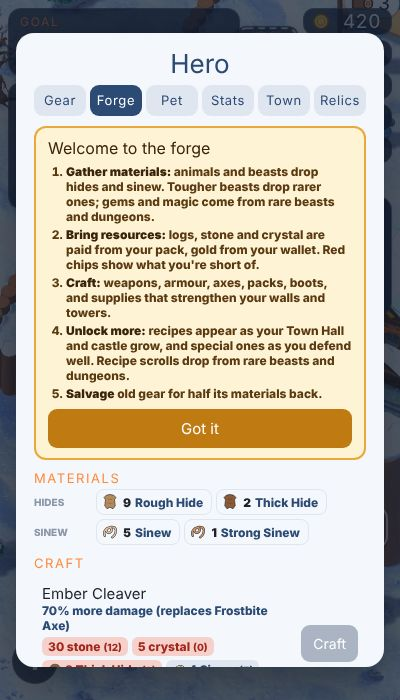
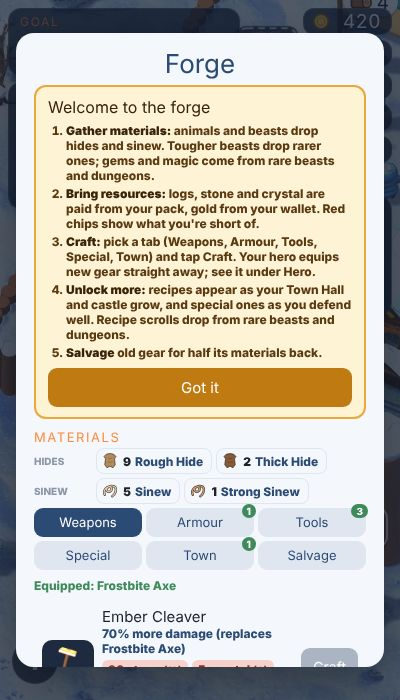
Forge in its own window with grouped tabs and item pictures; hero lists gear and materials apart; staging indestructible mode
Claude-Session: https://claude.ai/code/session_01B1L5Cqk9pSHD4f4xTSZniZ

diff --git a/index.html b/index.html
@@ -105,6 +105,8 @@ html,body{height:100%;margin:0;background:var(--ice);color:var(--ink);overflow:h
 .craft .row{display:flex;gap:8px;align-items:center;background:#f4f7fb;border-radius:10px;padding:8px;margin:6px 0}.craft .row div{flex:1;font:800 12px var(--body);color:#2b4a74}.craft .row div b{display:block;font:15px var(--display);color:#1d2128}.craft .cost{display:flex;flex-wrap:wrap;gap:4px;margin-top:4px}.craft .cost span{background:#dfe6f0;border-radius:6px;padding:2px 6px}.craft .cost span.no{background:#f6d1cc;color:#a3271b}.craft .row button{border:0;border-radius:9px;padding:10px 12px;font:14px var(--display);background:#3f8a5a;color:#fff;cursor:pointer}.craft .row button:disabled{background:#aab4c2}.craft .row button.salv{background:#a3532b}.craft .row.rare{background:#e3efff;box-shadow:inset 0 0 0 2px #6fa8e8}.craft .row.legendary{background:#fff3d6;box-shadow:inset 0 0 0 2px #e8a83a}.craft .row em{font:800 10px var(--body);font-style:normal;text-transform:uppercase;padding:2px 6px;border-radius:6px;background:#2b4a74;color:#fff;vertical-align:middle}.craft .row.legendary em{background:#c07a12}
 .craft .ftut{background:#fff3d6;border:2px solid #e8a83a;border-radius:12px;padding:10px 12px;margin:4px 0 8px;font:800 12px var(--body);color:#5a3a10}.craft .ftut b{color:#3a2408}.craft .ftut>b{display:block;font:16px var(--display)}.craft .ftut ol{margin:6px 0 8px 18px;padding:0}.craft .ftut li{margin:3px 0}.craft .ftut button{width:100%;border:0;border-radius:9px;padding:10px;font:15px var(--display);background:#c07a12;color:#fff;cursor:pointer}
 #forgeBtn.new::after{content:'NEW';position:absolute;top:-8px;right:-8px;background:#e2483f;color:#fff;font:800 10px var(--body);padding:2px 5px;border-radius:6px}#forgeBtn{position:fixed}
+.ftabs{display:flex;flex-wrap:wrap;gap:4px;margin:4px 0 8px}.ftabs button{flex:1 0 30%;border:0;border-radius:9px;padding:8px 4px;font:13px/1 var(--display);background:#dfe6f0;color:#2b4a74;cursor:pointer;position:relative}.ftabs button[aria-pressed=true]{background:#2b4a74;color:#fff}.ftabs button i{position:absolute;top:-4px;right:-2px;background:#3f8a5a;color:#fff;font:800 10px var(--body);font-style:normal;border-radius:8px;padding:1px 5px}
+.craft .row .pic{flex:0 0 52px;height:52px;border-radius:10px;background:#1d2a40;display:flex;align-items:center;justify-content:center;overflow:hidden}.craft .row .pic img,.craft .row .pic svg{width:48px;height:48px}.craft .ok{font:800 12px var(--body);color:#3f8a5a;margin:4px 0}
 .craft .mats{display:flex;flex-wrap:wrap;gap:4px}.craft .mats span{display:inline-flex;align-items:center;gap:4px;background:#f4f7fb;color:#2b4a74;border:1px solid #dfe6f0;border-radius:8px;padding:3px 8px 3px 4px;font:800 12px var(--body)}.craft .mats span b{color:#1d2128}.craft .mgrp{display:flex;gap:8px;align-items:flex-start;margin:4px 0}.craft .mgrp>i{flex:0 0 54px;font:800 10px var(--body);font-style:normal;text-transform:uppercase;color:#8a96a8;padding-top:7px}.craft .cost span{display:inline-flex;align-items:center;gap:3px}.mi{flex:none;vertical-align:middle}.craft p{font:800 12px var(--body);color:#5a6b80;margin:6px 0}
 #tameBtn{position:fixed;z-index:8;left:50%;transform:translateX(-50%);bottom:calc(78px + env(safe-area-inset-bottom,0px));border:2px solid #fff;background:#3f8a5a;color:#fff;font:17px/1 var(--display);letter-spacing:.04em;padding:14px 20px;border-radius:14px;box-shadow:0 6px 18px rgba(0,0,0,.3);cursor:pointer;white-space:nowrap}
 #chipMenu{position:fixed;z-index:9;display:flex;flex-direction:column;gap:6px;background:var(--panel);border:1px solid var(--panel-line);border-radius:12px;padding:7px}
@@ -166,6 +168,15 @@ html,body{height:100%;margin:0;background:var(--ice);color:var(--ink);overflow:h
 .icard{margin-top:8px;background:#fff;border:2px solid #c9d6e8;border-radius:12px;padding:8px 10px;font:700 13px/1.35 var(--body);min-height:40px}.icard b{display:block;font:16px/1.2 var(--display);color:#2b4a74}
 .inv{display:grid;grid-template-columns:repeat(4,1fr);gap:6px;margin-top:6px}.inv .slot{width:100%;height:auto;aspect-ratio:1}
 #stats ul{margin:0;padding-left:18px;font:700 13px/1.4 var(--body)}
+#forge{position:fixed;inset:0;z-index:21;display:flex;align-items:center;justify-content:center;background:rgba(16,26,44,.72);padding:0 16px}
+#forge .box{background:#f4f7fc;color:var(--ink);border-radius:18px;padding:18px 18px 14px;width:min(380px,100%);max-height:86vh;overflow:auto;box-shadow:0 20px 50px rgba(0,0,0,.35)}
+#forge h2{margin:0 0 8px;font:26px/1 var(--display);color:#2b4a74;text-align:center}
+#forge h3{margin:12px 0 4px;font:13px/1 var(--display);letter-spacing:.12em;text-transform:uppercase;color:var(--ember)}
+#forge dl{display:grid;grid-template-columns:1fr auto;gap:4px 12px;margin:0;font:700 14px/1.3 var(--body)}
+#forge dd{margin:0;text-align:right;font-variant-numeric:tabular-nums}
+#forge .none{font:700 13px/1.3 var(--body);opacity:.65;margin:0}
+#forge ul{margin:0;padding-left:18px;font:700 13px/1.4 var(--body)}
+#closeForge{display:block;margin:14px auto 0;border:0;border-radius:12px;background:#2b4a74;color:#fff;font:16px/1 var(--display);padding:10px 20px;cursor:pointer}
 #closeStats{display:block;margin:14px auto 0;border:0;border-radius:12px;background:#2b4a74;color:#fff;font:16px/1 var(--display);padding:10px 20px;cursor:pointer}
 #invite{position:fixed;inset:0;z-index:21;display:flex;align-items:center;justify-content:center;background:rgba(16,26,44,.72);padding:0 16px}
 #invite .box{background:#f4f7fc;color:var(--ink);border-radius:18px;padding:20px;max-width:330px;text-align:center;box-shadow:0 20px 50px rgba(0,0,0,.35)}
@@ -251,6 +262,7 @@ html,body{height:100%;margin:0;background:var(--ice);color:var(--ink);overflow:h
 <div class="joinrow"><label for="codeIn">Room code</label><input id="codeIn" maxlength="6" autocomplete="off" inputmode="text" placeholder="e.g. K7Q2"><button id="joinBtn" type="button">Join</button></div>
 <p id="lobbyMsg" class="fine"></p><button id="closeLobby" type="button" class="ghost">Cancel</button></div></div>
 <div id="help" hidden><div class="box"><h2>How to play</h2><input id="helpQ" type="search" placeholder="Search help (e.g. pets, raids, castle)"><div id="helpBody">Loading…</div><button id="closeHelp" type="button">Close</button></div></div>
+<div id="forge" hidden><div class="box"><h2>Forge</h2><div id="forgeBody"></div><button id="closeForge" type="button">Close</button></div></div>
 <div id="stats" hidden><div class="box"><h2>Hero</h2><div id="statsBody"></div><h3>Name and coat colour</h3><div class="prof"></div><button id="closeStats" type="button">Close</button></div></div>
 <div id="over" hidden><div class="box"><h2 id="overHead">Frosthold has fallen</h2><p id="overTxt"></p><button id="again" type="button">Rebuild</button></div></div>
 
@@ -579,6 +591,7 @@ function floatText(txt, x, y, z, cls) { if (loading) return; const d = document.
 function makeBar(cls) { const d = document.createElement('div'); d.className = 'bar3 ' + (cls || ''); d.innerHTML = '<i></i>'; d.hidden = true; ov.appendChild(d); return d; }
 function setBar(bar, f, x, y, z) { bar.hidden = false; bar.firstChild.style.width = (clamp(f, 0, 1) * 100) + '%'; place(bar, x, y, z); }
 let bannerT = 0, loading = false;
+const GOD = { hero: false, town: false };   // staging-only indestructible switches
 function banner(txt, good, sub) { if (loading) return; const b = $('banner'); b.innerHTML = ''; b.append(txt); if (sub) { const s = document.createElement('small'); s.textContent = sub; b.append(s); } b.className = 'hud on' + (good ? ' good' : ''); bannerT = sub ? 3.4 : 2.4; }
 let lastNote = 0;
 function note(txt, cls = 'warn') { const now = performance.now(); if (now - lastNote > 900) { lastNote = now; floatText(txt, player.x, 3.4, player.z, cls); } }
@@ -1216,7 +1229,7 @@ function blockingSeg(x, z, rad) {
   return null;
 }
 function damageSeg(s, dmg) {
-  if (!s.built) return;
+  if (!s.built || GOD.town) return;
   s.hp -= dmg; burst(s.mx + rand(-1, 1), 1.2, s.mz, s.stone ? 0x8f99a6 : 0x9a5e38, 2, 2);
   if (s.hp <= 0) { setSegBuilt(s, false); s.broken = true; banner(s.isGate ? 'The gate is down!' : 'A wall broke!'); play('wallbreak'); }
 }
@@ -1587,7 +1600,7 @@ function leaveDungeon(won) {
 }
 const solidAt = (L, x, y) => { const ix = Math.floor(x), iy = Math.floor(y); if (ix < 0 || ix >= L.W || iy < 0) return 1; if (iy >= L.H) return 0; return L.t[iy * L.W + ix]; };
 function hurtDun(dmg) {
-  const D = DUN; if (D.inv > 0) return; D.inv = 1.2; D.hearts--; D.heartFx = 0.5; play('hurt'); D.vy = -9; D.vx = -D.face * 6;   // three hearts: every hit costs one
+  const D = DUN; if (D.inv > 0 || GOD.hero) return; D.inv = 1.2; D.hearts--; D.heartFx = 0.5; play('hurt'); D.vy = -9; D.vx = -D.face * 6;   // three hearts: every hit costs one
   if (D.hearts <= 0) leaveDungeon(false);
 }
 function dunHit(e, dmg) {
@@ -2126,6 +2139,7 @@ function specialWorker(w, dt) {
   return false;
 }
 function hurtWorker(w, dmg) {
+  if (GOD.town) return;
   w.hp -= dmg; w.hurtT = 4; burst(w.x, 1.2, w.z, 0xd9524b, 4, 2);
   if (w.hp > 0) return;
   const i = workers.indexOf(w); if (i < 0) return;
@@ -2526,7 +2540,7 @@ function damageYak(y, dmg, by) {
   }
 }
 function hurtHero(dmg) {
-  if (DUN || paused) return;   // a paused co-op hero is safe while away
+  if (DUN || paused || GOD.hero) return;   // a paused co-op hero is safe while away
   if (S.downT > 0) return;
   dmg *= 1 - (S.armorLv >= 0 ? ARMORS[S.armorLv].a : 0);
   if (hasSpecial('shield')) dmg *= 0.88;
@@ -2702,6 +2716,7 @@ function petXP(n) {
     banner(P.name + ' is now level ' + P.lvl + '!', true, '+15% damage and more health'); play('levelup'); if (pet) burst(pet.x, 1.5, pet.z, 0xf2c14e, 14, 3); }
 }
 function hurtPet(dmg) {
+  if (GOD.town || GOD.hero) return;
   if (!pet || !S.pet) return; S.pet.hp -= dmg; pet.hurtT = 3; burst(pet.x, 1, pet.z, 0xd9524b, 4, 2);
   if (S.pet.hp <= 0) { banner(S.pet.name + ' has fallen', false, 'Tame another with your Beast Charm'); play('alert'); burst(pet.x, 1, pet.z, 0x9aa4b1, 14, 3); dropPet(); S.pet = null; }
 }
@@ -2726,7 +2741,17 @@ function updatePet(dt) {
   if (P.hp < P.max) setBar(pet.bar, P.hp / P.max, pet.x, 1.4 + T.size + (T.fly ? 2.2 : 0), pet.z); else pet.bar.hidden = true;
   pet.tag.hidden = d2(pet.x, pet.z, player.x, player.z) > 30 * 30; if (!pet.tag.hidden) { pet.tag.textContent = P.name + ' \u00b7 Lv ' + (P.lvl || 1); place(pet.tag, pet.x, 1.9 + T.size + (T.fly ? 2.2 : 0), pet.z); }
 }
-$('forgeBtn').addEventListener('click', e => { e.stopPropagation(); heroTab = 'craft'; heroPick = null; showStats(); });
+$('forgeBtn').addEventListener('click', e => { e.stopPropagation(); showForge(); });
+$('closeForge').addEventListener('click', e => { e.stopPropagation(); $('forge').hidden = true; });
+$('forgeBody').addEventListener('click', e => {
+  e.stopPropagation();
+  if (e.target.closest('[data-ftut]')) { S.forgeSeen = true; savePersonal(); return showForge(); }
+  const ft = e.target.closest('[data-ftab]'); if (ft) { forgeTab = ft.dataset.ftab; return showForge(); }
+  const su = e.target.closest('[data-supply]'); if (su) { doSupply(su.dataset.supply); return showForge(); }
+  const cf = e.target.closest('[data-craft]'); if (cf) { doCraft(cf.dataset.craft); return showForge(); }
+  const sv = e.target.closest('[data-salv]'); if (sv) { doSalvage(sv.dataset.salv); return showForge(); }
+});
+['pointerdown', 'touchstart', 'mousedown'].forEach(ev => $('forge').addEventListener(ev, e => e.stopPropagation()));
 ['pointerdown', 'touchstart', 'mousedown'].forEach(ev => $('forgeBtn').addEventListener(ev, e => e.stopPropagation()));
 $('tameBtn').addEventListener('click', e => { e.stopPropagation(); if (!taming) { tameTgt = tameCandidate(); if (tameTgt) { taming = 0.001; play('spell'); } } });
 ['pointerdown', 'touchstart', 'mousedown'].forEach(ev => { $('tameBtn').addEventListener(ev, e => e.stopPropagation()); $('tameNo').addEventListener(ev, e => e.stopPropagation()); });
@@ -3268,7 +3293,7 @@ function update(dt) {
       } else {
         e.rot = turnTo(e.rot, Math.atan2(t.x - e.x, t.z - e.z), 0.3); e.atkT -= dt;
         if (e.atkT <= 0) { e.atkT = 1; e.shake = 0.15;
-          if (t === player) hurtHero(e.dmgUnit); else if (t.kind === 'remote') netGive(t.peer, 'hurt', e.dmgUnit); else if (t.kind === 'guard') t.hp -= e.dmgUnit; else if (t.kind === 'worker') { hurtWorker(t, e.dmgUnit); if (t.hp <= 0) e.tgt = null; } else if (t.kind === 'pet') { hurtPet(e.dmgUnit); if (!pet) e.tgt = null; } else { killCivilian(t); e.tgt = null; } }
+          if (t === player) hurtHero(e.dmgUnit); else if (t.kind === 'remote') netGive(t.peer, 'hurt', e.dmgUnit); else if (t.kind === 'guard') t.hp -= GOD.town ? 0 : e.dmgUnit; else if (t.kind === 'worker') { hurtWorker(t, e.dmgUnit); if (t.hp <= 0) e.tgt = null; } else if (t.kind === 'pet') { hurtPet(e.dmgUnit); if (!pet) e.tgt = null; } else { killCivilian(t); e.tgt = null; } }
       }
     } else if (e.seg && e.seg.built && e.seg.ring.active) {
       const [cx, cz] = segClosest(e.x, e.z, e.seg);
@@ -3487,11 +3512,11 @@ function gainRefund(r) { S.wallet += r.cash || 0; bump('cash'); const M = S.mats
 const nearForge = () => B.smith && d2(player.x, player.z, -6, 20.4) < 49;
 function craftList() {
   const L = [], th = S.th, nw = S.weapon + 1, na = S.armorLv + 1;
-  if (nw < WEAPONS.length && (S.castle || 0) >= GEAR_CASTLE[nw]) L.push({ id: 'weapon', r: WEAPONS[nw].r, n: WEAPONS[nw].n, d: Math.round((WEAPONS[nw].m - 1) * 100) + '% more damage' + (S.weapon >= 0 ? ' (replaces ' + WEAPONS[S.weapon].n + ')' : ''), c: RECIPES.weapon[nw], th: GEAR_TH[nw] });
-  if (na < ARMORS.length && (S.castle || 0) >= GEAR_CASTLE[na]) L.push({ id: 'armor', r: ARMORS[na].r, n: ARMORS[na].n, d: 'Take ' + Math.round(ARMORS[na].a * 100) + '% less damage' + (S.armorLv >= 0 ? ' (replaces ' + ARMORS[S.armorLv].n + ')' : ''), c: RECIPES.armor[na], th: GEAR_TH[na] });
-  if (S.axe < 4) L.push({ id: 'axe', n: ['', '', 'Twin Axes', 'Axe III', 'Axe IV'][S.axe + 1], d: AXE[S.axe + 1].dmg + ' chop damage, hits ' + AXE[S.axe + 1].max + ' at once', c: RECIPES.axe[S.axe + 1], th: S.axe });
-  if (S.bag < 3) L.push({ id: 'bag', n: 'Pack ' + CAPS[S.bag + 1], d: 'Carry ' + CAPS[S.bag + 1] + ' items', c: RECIPES.bag[S.bag + 1], th: S.bag + 1 });
-  const rl = S.runLv || 0; if (rl < 3) L.push({ id: 'boots', n: ['', 'Fur Boots', 'Runner Boots', 'Windwalkers'][rl + 1], d: 'Move ' + (rl + 1) * 12 + '% faster', c: RECIPES.boots[rl + 1], th: rl + 1 });
+  if (nw < WEAPONS.length && (S.castle || 0) >= GEAR_CASTLE[nw]) L.push({ id: 'weapon', g: 'weapon', lv: nw, r: WEAPONS[nw].r, n: WEAPONS[nw].n, d: Math.round((WEAPONS[nw].m - 1) * 100) + '% more damage' + (S.weapon >= 0 ? ' (replaces ' + WEAPONS[S.weapon].n + ')' : ''), c: RECIPES.weapon[nw], th: GEAR_TH[nw] });
+  if (na < ARMORS.length && (S.castle || 0) >= GEAR_CASTLE[na]) L.push({ id: 'armor', g: 'armor', lv: na, r: ARMORS[na].r, n: ARMORS[na].n, d: 'Take ' + Math.round(ARMORS[na].a * 100) + '% less damage' + (S.armorLv >= 0 ? ' (replaces ' + ARMORS[S.armorLv].n + ')' : ''), c: RECIPES.armor[na], th: GEAR_TH[na] });
+  if (S.axe < 4) L.push({ id: 'axe', g: 'tools', lv: S.axe + 1, n: ['', '', 'Twin Axes', 'Axe III', 'Axe IV'][S.axe + 1], d: AXE[S.axe + 1].dmg + ' chop damage, hits ' + AXE[S.axe + 1].max + ' at once', c: RECIPES.axe[S.axe + 1], th: S.axe });
+  if (S.bag < 3) L.push({ id: 'bag', g: 'tools', lv: S.bag + 1, n: 'Pack ' + CAPS[S.bag + 1], d: 'Carry ' + CAPS[S.bag + 1] + ' items', c: RECIPES.bag[S.bag + 1], th: S.bag + 1 });
+  const rl = S.runLv || 0; if (rl < 3) L.push({ id: 'boots', g: 'tools', lv: rl + 1, n: ['', 'Fur Boots', 'Runner Boots', 'Windwalkers'][rl + 1], d: 'Move ' + (rl + 1) * 12 + '% faster', c: RECIPES.boots[rl + 1], th: rl + 1 });
   L.forEach(r => { r.lock = th < r.th; r.ok = !r.lock && canAfford(r.c); });
   return L.filter(r => !r.lock);
 }
@@ -3524,24 +3549,56 @@ function doSalvage(id) {
 }
 const costTxt = c => Object.keys(c).filter(k => c[k]).map(k => c[k] + ' ' + (MATS[k] || resName(k))).join(', ');
 const costChips = c => '<span class="cost">' + Object.keys(c).filter(k => c[k]).map(k => `<span class="${haveOf(k) >= c[k] ? '' : 'no'}">${MATS[k] ? matSvg(k, 14) : ''}${c[k]} ${MATS[k] || resName(k)} <small>(${haveOf(k)})</small></span>`).join('') + '</span>';
+// item pictures for forge rows and the hero inventory
+function itemPic(id, lv) {
+  if (id === 'weapon') return pic('axe', lv, icon('axe', WEAPON_COL[lv + 1] || WEAPON_COL[0], false));
+  if (id === 'armor') return pic('armor', lv, icon('armor', ARMOR_COL[lv], lv >= 2));
+  if (id === 'axe') return icon('axe', WEAPON_COL[0], lv >= 2);
+  if (id === 'bag') return pic('pack', lv, icon('pack', lv));
+  if (id === 'boots') return pic('boots', lv, icon('boots', lv));
+  const S2 = x => `<svg viewBox="0 0 48 48">${x}</svg>`, o = 'stroke="#1d2128" stroke-width="1.5"';
+  if (id === 'planks') return S2(`<rect x="6" y="12" width="36" height="8" rx="2" fill="#b07a4a" ${o}/><rect x="6" y="22" width="36" height="8" rx="2" fill="#9a6538" ${o}/><rect x="6" y="32" width="36" height="8" rx="2" fill="#b07a4a" ${o}/>`);
+  if (id === 'braces') return S2(`<path d="M8 10 L20 10 L20 30 L40 30 L40 40 L8 40 Z" fill="#8f99a6" ${o}/><circle cx="14" cy="16" r="2" fill="#1d2128"/><circle cx="14" cy="34" r="2" fill="#1d2128"/><circle cx="34" cy="35" r="2" fill="#1d2128"/>`);
+  if (id === 'runes') return S2(`<path d="M12 8 L36 8 L40 40 L8 40 Z" fill="#6f7fa8" ${o}/><path d="M24 14 L24 34 M18 20 L30 28 M30 20 L18 28" stroke="#9fe6ff" stroke-width="3" stroke-linecap="round"/>`);
+  if (id === 'totem') return S2(`<rect x="19" y="6" width="10" height="38" rx="2" fill="#8a5a36" ${o}/><circle cx="24" cy="14" r="6" fill="#dfe6f0" ${o}/><path d="M12 22 L36 22 L30 28 L18 28 Z" fill="#e2483f" ${o}/>`);
+  const x = SPECIALS.find(q => q.id === id);
+  if (x) return S2(`<path d="M24 4 L40 14 L36 38 L24 44 L12 38 L8 14 Z" fill="${x.leg ? '#e8b23a' : '#6fa8e8'}" ${o}/><path d="M24 14 L27 21 L35 21 L29 26 L31 34 L24 29 L17 34 L19 26 L13 21 L21 21 Z" fill="#fff" opacity=".9"/>`);
+  return S2(`<circle cx="24" cy="24" r="14" fill="#aab4c2" ${o}/>`);
+}
+const FORGE_TABS = [['weapon', 'Weapons'], ['armor', 'Armour'], ['tools', 'Tools'], ['special', 'Special'], ['town', 'Town'], ['salvage', 'Salvage']];
+let forgeTab = 'weapon';
+const fRow = (img, name, tag, cls, desc, body, btn) => `<div class="row${cls ? ' ' + cls : ''}"><span class="pic">${img}</span><div><b>${name}${tag ? ' <em>' + tag + '</em>' : ''}</b>${desc}${body}</div>${btn}</div>`;
 function showForge() {
-  let h = tabsHtml() + '<div class="craft">';
-  if (!S.forgeSeen) h += `<div class="ftut"><b>Welcome to the forge</b><ol><li><b>Gather materials:</b> animals and beasts drop hides and sinew. Tougher beasts drop rarer ones; gems and magic come from rare beasts and dungeons.</li><li><b>Bring resources:</b> logs, stone and crystal are paid from your pack, gold from your wallet. Red chips show what you're short of.</li><li><b>Craft:</b> weapons, armour, axes, packs, boots, and supplies that strengthen your walls and towers.</li><li><b>Unlock more:</b> recipes appear as your Town Hall and castle grow, and special ones as you defend well. Recipe scrolls drop from rare beasts and dungeons.</li><li><b>Salvage</b> old gear for half its materials back.</li></ol><button type="button" data-ftut="1">Got it</button></div>`;
   $('forgeBtn').classList.remove('new');
-  const M = S.mats || {}, owned = Object.keys(MATS).filter(k => M[k] > 0);
+  const near = nearForge(), M = S.mats || {}, owned = Object.keys(MATS).filter(k => M[k] > 0);
+  const crafts = craftList(), sp = SPECIALS.filter(x => !hasSpecial(x.id) && x.ok()), hidden = SPECIALS.filter(x => !hasSpecial(x.id) && !x.ok()), su = supplyList(), sv = salvageList();
+  const ready = { weapon: crafts.filter(r => r.g === 'weapon' && r.ok).length, armor: crafts.filter(r => r.g === 'armor' && r.ok).length, tools: crafts.filter(r => r.g === 'tools' && r.ok).length,
+    special: sp.filter(x => canAfford(x.c)).length, town: isGuest() ? 0 : su.filter(x => x.afford).length, salvage: 0 };
+  let h = '<div class="craft">';
+  if (!S.forgeSeen) h += `<div class="ftut"><b>Welcome to the forge</b><ol><li><b>Gather materials:</b> animals and beasts drop hides and sinew. Tougher beasts drop rarer ones; gems and magic come from rare beasts and dungeons.</li><li><b>Bring resources:</b> logs, stone and crystal are paid from your pack, gold from your wallet. Red chips show what you're short of.</li><li><b>Craft:</b> pick a tab (Weapons, Armour, Tools, Special, Town) and tap Craft. Your hero equips new gear straight away; see it under Hero.</li><li><b>Unlock more:</b> recipes appear as your Town Hall and castle grow, and special ones as you defend well. Recipe scrolls drop from rare beasts and dungeons.</li><li><b>Salvage</b> old gear for half its materials back.</li></ol><button type="button" data-ftut="1">Got it</button></div>`;
   h += '<h3>Materials</h3>' + (owned.length ? MAT_GROUPS.map(([g, ks]) => { const have = ks.filter(k => M[k] > 0); return have.length ? `<div class="mgrp"><i>${g}</i><div class="mats">` + have.map(k => `<span>${matSvg(k)}<b>${M[k]}</b> ${MATS[k]}</span>`).join('') + '</div></div>' : ''; }).join('') : '<p>None yet. Hunt animals and slay beasts: tougher creatures drop rarer hides and sinew, but less often.</p>');
   if (!B.smith) h += '<p>Build the blacksmith to open the forge.</p>';
-  else if (!nearForge()) h += '<p>Stand by the blacksmith to craft and salvage. Logs, stone and crystal are paid from your pack.</p>';
-  h += '<h3>Craft</h3>' + craftList().map(r => `<div class="row${r.r ? ' ' + r.r.toLowerCase() : ''}"><div><b>${r.n}${r.r ? ' <em>' + r.r + '</em>' : ''}</b>${r.d}${r.lock ? '<br>Needs Town Hall ' + ROMAN[r.th] : costChips(r.c)}</div><button type="button" data-craft="${r.id}" ${r.ok && nearForge() ? '' : 'disabled'}>Craft</button></div>`).join('');
-  const sp = SPECIALS.filter(x => !hasSpecial(x.id) && x.ok()), hidden = SPECIALS.filter(x => !hasSpecial(x.id) && !x.ok());
-  const su = supplyList();
-  if (su.length) h += '<h3>Town supplies</h3>' + (isGuest() ? '<p>Only the host can strengthen the town.</p>' : '') + su.map(x => `<div class="row"><div><b>${x.n}</b>${x.d}${costChips(x.c)}</div><button type="button" data-supply="${x.id}" ${x.afford && nearForge() && !isGuest() ? '' : 'disabled'}>Craft</button></div>`).join('');
-  if (sp.length) h += '<h3>Special</h3>' + sp.map(x => `<div class="row ${x.leg ? 'legendary' : 'rare'}"><div><b>${x.n} <em>${x.leg ? 'Legendary' : x.scroll ? 'Scroll' : 'Special'}</em></b>${x.d}${costChips(x.c)}</div><button type="button" data-craft="sp:${x.id}" ${canAfford(x.c) && nearForge() ? '' : 'disabled'}>Craft</button></div>`).join('');
-  const nextTH = S.th < 3 ? 'Town Hall ' + ROMAN[S.th + 1] : (S.castle || 0) < 2 ? 'Castle ' + ROMAN[(S.castle || 0) + 1] : '';
-  h += '<p>' + (nextTH ? 'More recipes appear at ' + nextTH + '. ' : '') + (hidden.length ? hidden.length + ' special recipe' + (hidden.length > 1 ? 's are' : ' is') + ' still hidden: grow stronger, survive longer, defend your walls well (' + (S.cleanRaids || 0) + ' raids beaten with no wall broken) and hunt for recipe scrolls on rare beasts and in dungeons.' : '') + '</p>';
-  const sv = salvageList();
-  h += '<h3>Salvage</h3><p>Break down gear you own for half its materials and gold back.</p>' + (sv.length ? sv.map(r => `<div class="row"><div><b>${r.n}</b>${r.d}<span class="cost"><span>+ ${costTxt(r.r)}</span></span></div><button type="button" class="salv" data-salv="${r.id}" ${nearForge() ? '' : 'disabled'}>Salvage</button></div>`).join('') : '<p>Nothing to salvage yet.</p>');
-  $('statsBody').innerHTML = h + '</div>'; $('stats').hidden = false;
+  else if (!near) h += '<p>Stand by the blacksmith to craft and salvage. Logs, stone and crystal are paid from your pack.</p>';
+  h += '<div class="ftabs">' + FORGE_TABS.map(([k, n]) => `<button type="button" data-ftab="${k}" aria-pressed="${forgeTab === k}">${n}${ready[k] ? '<i>' + ready[k] + '</i>' : ''}</button>`).join('') + '</div>';
+  if (forgeTab === 'salvage') {
+    h += '<p>Break down gear you own for half its materials and gold back.</p>' + (sv.length ? sv.map(r => { const [k, i] = r.id.split(':'), img = k === 'weapon' ? itemPic('weapon', S.weapon) : k === 'armor' ? itemPic('armor', S.armorLv) : k === 'ranged' ? pic('ranged', +i, icon('ranged', +i)) : pic(k, +i, icon(k, +i));
+      return fRow(img, r.n, '', '', r.d, `<span class="cost"><span>+ ${costTxt(r.r)}</span></span>`, `<button type="button" class="salv" data-salv="${r.id}" ${near ? '' : 'disabled'}>Salvage</button>`); }).join('') : '<p>Nothing to salvage yet.</p>');
+  } else if (forgeTab === 'town') {
+    h += '<p>Supplies that repair and strengthen your walls and towers.' + (isGuest() ? ' Only the host can strengthen the town.' : '') + '</p>' + (su.length ? su.map(x => fRow(itemPic(x.id), x.n, '', '', x.d, costChips(x.c), `<button type="button" data-supply="${x.id}" ${x.afford && near && !isGuest() ? '' : 'disabled'}>Craft</button>`)).join('') : '<p>More town supplies unlock at Town Hall II.</p>');
+  } else if (forgeTab === 'special') {
+    h += (sp.length ? sp.map(x => fRow(itemPic(x.id), x.n, x.leg ? 'Legendary' : x.scroll ? 'Scroll' : 'Special', x.leg ? 'legendary' : 'rare', x.d, costChips(x.c), `<button type="button" data-craft="sp:${x.id}" ${canAfford(x.c) && near ? '' : 'disabled'}>Craft</button>`)).join('') : '');
+    const own = (S.specials || []).map(id => SPECIALS.find(q => q.id === id)).filter(Boolean);
+    if (own.length) h += '<p>Owned: ' + own.map(x => x.n).join(', ') + '</p>';
+    h += '<p>' + (hidden.length ? hidden.length + ' special recipe' + (hidden.length > 1 ? 's are' : ' is') + ' still hidden: grow stronger, survive longer, defend your walls well (' + (S.cleanRaids || 0) + ' raids beaten with no wall broken) and hunt for recipe scrolls on rare beasts and in dungeons.' : 'Every special recipe found.') + '</p>';
+  } else {
+    const rows = crafts.filter(r => r.g === forgeTab);
+    const cur = forgeTab === 'weapon' ? (S.weapon >= 0 ? WEAPONS[S.weapon].n : 'Camp axe') : forgeTab === 'armor' ? (S.armorLv >= 0 ? ARMORS[S.armorLv].n : 'No armour') : '';
+    if (cur) h += '<p class="ok">Equipped: ' + cur + '</p>';
+    h += rows.length ? rows.map(r => fRow(itemPic(r.id, r.lv), r.n, r.r, r.r ? r.r.toLowerCase() : '', r.d, costChips(r.c), `<button type="button" data-craft="${r.id}" ${r.ok && near ? '' : 'disabled'}>Craft</button>`)).join('') : '<p>Nothing new to forge here right now.</p>';
+    const nextTH = S.th < 3 ? 'Town Hall ' + ROMAN[S.th + 1] : (S.castle || 0) < 2 ? 'Castle ' + ROMAN[(S.castle || 0) + 1] : '';
+    if (nextTH) h += '<p>More recipes appear at ' + nextTH + '.</p>';
+  }
+  $('forgeBody').innerHTML = h + '</div>'; $('forge').hidden = false;
 }
 const WILD = {
   spider: { hp: 6, dmg: 4, speed: 3.2, size: 0.8, xp: 6, tier: 0 },
@@ -3813,10 +3870,16 @@ function heroItems() {
   const inv = [];
   (S.rangedOwn || []).forEach(i => inv.push({ svg: pic('ranged', i, icon('ranged', i)), name: RANGED[i].n, on: S.rangedOn === i, act: 'ranged:' + i, info: (RANGED[i].dmg * rangedMul()).toFixed(1) + ' damage, ' + RANGED[i].rng + ' m range. Tap to carry.' }));
   ['helm', 'cape'].forEach(sl => (W[sl] || []).filter(i => i).forEach(i => inv.push({ svg: pic(sl, i, icon(sl, i)), name: LOOKS[sl][i], on: (wear[sl] || 0) === i, act: 'wear:' + sl + ':' + i, info: 'Tap to wear (tap again to take off).' })));
-  MAT_GROUPS.forEach(([g, ks]) => ks.forEach(k => { if ((S.mats || {})[k] > 0) inv.push({ svg: matSvg(k, 48).replace('class="mi" ', ''), name: MATS[k], count: S.mats[k], info: g + ' · crafting material. Use it at the forge by the blacksmith.' }); }));
-  (S.specials || []).forEach(id => { const x = SPECIALS.find(q => q.id === id); if (x) inv.push({ svg: `<svg viewBox="0 0 48 48"><path d="M24 4 L40 14 L36 38 L24 44 L12 38 L8 14 Z" fill="${x.leg ? '#e8b23a' : '#6fa8e8'}" stroke="#1d2128" stroke-width="1.5"/></svg>`, name: x.n, info: x.d + '. Special forge item, always active.' }); });
+  const mats = [];
+  MAT_GROUPS.forEach(([g, ks]) => ks.forEach(k => { if ((S.mats || {})[k] > 0) mats.push({ svg: matSvg(k, 48).replace('class="mi" ', ''), name: MATS[k], count: S.mats[k], info: g + ' · crafting material. Use it at the forge by the blacksmith.' }); }));
   if (S.medkits) inv.push({ svg: pic('medkit', 0, icon('medkit')), name: 'Med kit', count: S.medkits, info: 'Stand by a downed teammate to revive them.' });
-  return { slots, inv };
+  if (S.weapon >= 0) inv.unshift({ svg: itemPic('weapon', S.weapon), name: WEAPONS[S.weapon].n, on: true, info: 'Equipped weapon: ' + Math.round((WEAPONS[S.weapon].m - 1) * 100) + '% more damage.' });
+  if (S.armorLv >= 0) inv.unshift({ svg: itemPic('armor', S.armorLv), name: ARMORS[S.armorLv].n, on: true, info: 'Equipped armour: take ' + Math.round(ARMORS[S.armorLv].a * 100) + '% less damage.' });
+  if (S.axe >= 2) inv.push({ svg: itemPic('axe', S.axe), name: ['', '', 'Twin Axes', 'Axe III', 'Axe IV'][S.axe], on: true, info: 'Chopping axes: ' + AXE[S.axe].dmg + ' damage, hits ' + AXE[S.axe].max + ' at once.' });
+  if (S.bag) inv.push({ svg: itemPic('bag', S.bag), name: 'Pack ' + CAPS[S.bag], on: true, info: 'Carries ' + cap() + ' items.' });
+  if (S.runLv) inv.push({ svg: itemPic('boots', S.runLv), name: ['', 'Fur Boots', 'Runner Boots', 'Windwalkers'][S.runLv], on: true, info: 'Move ' + S.runLv * 12 + '% faster.' });
+  (S.specials || []).forEach(id => { const x = SPECIALS.find(q => q.id === id); if (x && !inv.some(it => it.name === x.n)) inv.push({ svg: itemPic(x.id), name: x.n, on: true, info: x.d + '. Special forge item, always active.' }); });
+  return { slots, inv, mats };
 }
 function drawPortrait() {
   const cv = $('heroCv'); if (!cv) return; const r = devicePixelRatio || 1, w = cv.clientWidth || 150, h = cv.clientHeight || 200;
@@ -3827,18 +3890,18 @@ function drawPortrait() {
 }
 function showStats() {
   if (heroTab === 'pet') return showPet();
-  if (heroTab === 'craft') return showForge();
   if (heroTab !== 'stats' && heroTab !== 'town' && heroTab !== 'relics') return showHero();
   return showStatsOld();
 }
+const invBtn = it => `<button type="button" class="slot${it.on ? ' on' : ''}" data-pick="${it.act || 'inv:' + it.name}">${it.svg}${it.count ? '<b>' + it.count + '</b>' : ''}<i>${it.name}</i></button>`;
 function showHero() {
-  const { slots, inv } = heroItems(), sl = k => { const it = slots[k]; return `<button type="button" class="slot${it.empty ? ' empty' : ''}${heroPick === 'slot:' + k ? ' on' : ''}" data-pick="slot:${k}">${it.svg}<i>${it.label}</i></button>`; };
-  const picked = heroPick && heroPick.startsWith('slot:') ? slots[heroPick.slice(5)] : heroPick ? inv.find(x => x.act === heroPick || 'inv:' + x.name === heroPick) : null;
+  const { slots, inv, mats } = heroItems(), sl = k => { const it = slots[k]; return `<button type="button" class="slot${it.empty ? ' empty' : ''}${heroPick === 'slot:' + k ? ' on' : ''}" data-pick="slot:${k}">${it.svg}<i>${it.label}</i></button>`; };
+  const picked = heroPick && heroPick.startsWith('slot:') ? slots[heroPick.slice(5)] : heroPick ? inv.concat(mats).find(x => x.act === heroPick || 'inv:' + x.name === heroPick) : null;
   const card = picked ? `<b>${picked.name}</b>${picked.info}` : '<b>' + (PROFILE.name || 'Your hero') + '</b>Tap a slot or an item to see what it does. Tap an item to equip it.';
   $('statsBody').innerHTML = tabsHtml() + `<div class="rpg"><div class="col">${sl('head')}${sl('body')}${sl('main')}${sl('ranged')}${sl('boots')}</div>
     <div class="portrait"><div id="heroView"></div><span class="nm">${PROFILE.name || 'Hero'}</span><span class="lv">Level ${S.lvl} · ${Math.round(S.hp)}/${Math.round(heroMax())} HP</span><span class="hpb"><i style="width:${Math.max(0, Math.min(100, S.hp / heroMax() * 100))}%"></i></span></div>
     <div class="col">${sl('back')}${sl('pack')}${sl('tool')}${sl('charm')}${sl('pet')}</div></div>
-    <div class="icard">${card}</div><h3>Inventory</h3>` + (inv.length ? `<div class="inv">${inv.map(it => `<button type="button" class="slot${it.on ? ' on' : ''}" data-pick="${it.act || 'inv:' + it.name}">${it.svg}${it.count ? '<b>' + it.count + '</b>' : ''}<i>${it.name}</i></button>`).join('')}</div>` : '<p class="none">Nothing yet: treasure chests, quests, dungeons and the blacksmith fill this up.</p>');
+    <div class="icard">${card}</div><h3>Gear</h3>` + (inv.length ? `<div class="inv">${inv.map(invBtn).join('')}</div>` : '<p class="none">Nothing yet: the forge, treasure chests, quests and dungeons fill this up.</p>') + '<h3>Materials</h3>' + (mats.length ? `<div class="inv">${mats.map(invBtn).join('')}</div>` : '<p class="none">Hunt animals and beasts for hides, sinew, gems and magic.</p>');
   $('stats').hidden = false;
   if (hvInit()) { syncHeroModel(); $('heroView').appendChild(HV.r.domElement); HV.r.domElement.style.width = '100%'; HV.r.domElement.style.height = 'auto'; if (!HV.raf) HV.raf = requestAnimationFrame(heroLoop); }
   else { $('heroView').innerHTML = '<canvas id="heroCv"></canvas>'; requestAnimationFrame(drawPortrait); }
@@ -3860,7 +3923,7 @@ function showPet() {
   }
   $('statsBody').innerHTML = h; $('stats').hidden = false;
 }
-function tabsHtml() { return '<div class="rtabs">' + [['gear', 'Gear'], ['craft', 'Forge'], ['pet', 'Pet'], ['stats', 'Stats'], ['town', 'Town'], ['relics', 'Relics']].map(([k, n]) => `<button type="button" data-tab="${k}" aria-pressed="${heroTab === k}">${n}</button>`).join('') + '</div>'; }
+function tabsHtml() { return '<div class="rtabs">' + [['gear', 'Gear'], ['pet', 'Pet'], ['stats', 'Stats'], ['town', 'Town'], ['relics', 'Relics']].map(([k, n]) => `<button type="button" data-tab="${k}" aria-pressed="${heroTab === k}">${n}</button>`).join('') + '</div>'; }
 function showStatsOld() {
   const pct = v => (v >= 0 ? '+' : '') + Math.round(v * 100) + '%';
   const row = (k, v) => `<dt>${k}</dt><dd>${v}</dd>`;
@@ -3902,10 +3965,6 @@ $('statsBtn').addEventListener('click', e => { e.stopPropagation(); heroTab = 'g
 $('closeStats').addEventListener('click', () => { $('stats').hidden = true; });
 $('statsBody').addEventListener('click', e => {
   if (e.target.closest('[data-rename]') && S.pet) { e.stopPropagation(); const n = prompt('Rename your pet:', S.pet.name); if (n && n.trim()) S.pet.name = n.trim().slice(0, 14); showStats(); return; }
-  if (e.target.closest('[data-ftut]')) { e.stopPropagation(); S.forgeSeen = true; savePersonal(); showStats(); return; }
-  const su = e.target.closest('[data-supply]'); if (su) { e.stopPropagation(); doSupply(su.dataset.supply); showStats(); return; }
-  const cf = e.target.closest('[data-craft]'); if (cf) { e.stopPropagation(); doCraft(cf.dataset.craft); showStats(); return; }
-  const sv = e.target.closest('[data-salv]'); if (sv) { e.stopPropagation(); doSalvage(sv.dataset.salv); showStats(); return; }
   const tb = e.target.closest('[data-tab]'); if (tb) { e.stopPropagation(); heroTab = tb.dataset.tab; heroPick = null; showStats(); return; }
   const pk = e.target.closest('[data-pick]'); if (pk) { e.stopPropagation(); const v = pk.dataset.pick;
     if (v.startsWith('ranged:')) { S.rangedOn = +v.slice(7); applyMyLook(); play('pay'); }
@@ -4753,7 +4812,7 @@ requestAnimationFrame(t => { last = t; frame(t); });
    Only on the staging test copy (it sets window.FROST_STAGING) or with ?staging in the URL. */
 if (window.FROST_STAGING || /staging/.test(location.search)) {
   const st = document.createElement('style');
-  st.textContent = `#stgBtn{position:fixed;z-index:30;left:8px;top:50%;border:2px solid #fff;background:#7a2bb8;color:#fff;font:800 12px var(--body);padding:8px 10px;border-radius:10px;cursor:pointer}
+  st.textContent = `#stgBtn{position:fixed;z-index:20;left:8px;top:50%;border:2px solid #fff;background:#7a2bb8;color:#fff;font:800 12px var(--body);padding:8px 10px;border-radius:10px;cursor:pointer}
   #stg{position:fixed;z-index:31;inset:8px;max-width:460px;margin:auto;background:#1d2128ee;color:#fff;border-radius:14px;padding:12px;overflow:auto;font:800 12px var(--body)}
   #stg h4{margin:10px 0 4px;font:15px var(--display);color:#ffd9a0}#stg button{margin:3px;border:0;border-radius:8px;padding:8px 10px;background:#3a4a66;color:#fff;font:800 12px var(--body);cursor:pointer}
   #stg button:active{background:#7a2bb8}#stg .x{float:right;background:#a3271b}#stg .lg{color:#c9d6e8;margin-top:8px;min-height:1em}`;
@@ -4766,6 +4825,9 @@ if (window.FROST_STAGING || /staging/.test(location.search)) {
   const isWall = p => p.kind === 'wall', isMain = p => p === padTH || p === padCastle;
   const walls = () => buildLoop(isWall);
   const ACT = {
+    'Indestructible': {
+      'Hero: off': () => { GOD.hero = !GOD.hero; S.hp = heroMax(); S.downT = 0; }, 'Town: off': () => { GOD.town = !GOD.town; if (GOD.town) repairAllWalls(); },
+    },
     'Hero': {
       '+1 level': () => { const t = S.lvl + 1; for (let i = 0; i < 2000 && S.lvl < t; i++) gainXP(25); }, '+5 levels': () => { const t = S.lvl + 5; for (let i = 0; i < 9000 && S.lvl < t; i++) gainXP(25); },
       'Full health': () => { S.hp = heroMax(); S.downT = 0; }, '+1000 gold': () => { S.wallet += 1000; bump('cash'); }, '+10000 gold': () => { S.wallet += 10000; bump('cash'); },
@@ -4803,7 +4865,7 @@ if (window.FROST_STAGING || /staging/.test(location.search)) {
   };
   const draw = msg => {
     pan.innerHTML = '<button type="button" class="x" data-x="1">Close</button><b style="font:18px var(--display)">Staging tools</b><div>Test copy only. Changes save like normal play.</div>' +
-      Object.keys(ACT).map(g => `<h4>${g}</h4>` + Object.keys(ACT[g]).map(k => `<button type="button" data-g="${g}" data-k="${k}">${k}</button>`).join('')).join('') +
+      Object.keys(ACT).map(g => `<h4>${g}</h4>` + Object.keys(ACT[g]).map(k => `<button type="button" data-g="${g}" data-k="${k}"${(k === 'Hero: off' && GOD.hero) || (k === 'Town: off' && GOD.town) ? ' style="background:#3f8a5a"' : ''}>${k === 'Hero: off' ? 'Hero (no damage, no knockouts): ' + (GOD.hero ? 'ON' : 'off') : k === 'Town: off' ? 'Town (walls, guards, workers, pet): ' + (GOD.town ? 'ON' : 'off') : k}</button>`).join('')).join('') +
       `<div class="lg">Level ${S.lvl} · TH ${ROMAN[S.th]}${S.castle ? ' · Castle ' + ROMAN[S.castle] : ''} · day ${dayNo()} · ${S.wallet} gold · clean raids ${S.cleanRaids || 0}${msg ? '<br>' + msg : ''}</div>`;
   };
   btn.addEventListener('click', e => { e.stopPropagation(); pan.hidden = !pan.hidden; if (!pan.hidden) draw(); });

diff --git a/README.md b/README.md
@@ -83,7 +83,7 @@ Three gold-only upgrade spaces sit around the plaza: comfort (supplies last long
 ![The Hero screen](assets/help/hero.jpg)
 - **Hero levels** come from gathering, building, selling and fighting, and add damage and health.
 - **Personal blacksmith upgrades:** the **Crystal Pick** (to mine crystal) and **ranged weapons** (below). Axes, packs, boots, weapons and armour are crafted at the forge (see Crafting). In co-op each player has their own.
-- **The Hero screen** (cog → Hero): your 3D hero in their gear, equipment slots, an inventory of everything you own (tap an item to see it or equip it), plus Forge, Pet, Stats, Town and Relics tabs, and your name and coat colour.
+- **The Hero screen** (cog → Hero): your 3D hero in their gear, equipment slots, your Gear and your Materials listed separately (tap an item to see it or equip it), plus Pet, Stats, Town and Relics tabs, and your name and coat colour.
 - New gear is equipped automatically when it's better than what you have.
 
 ## Crafting
@@ -94,7 +94,8 @@ Three gold-only upgrade spaces sit around the plaza: comfort (supplies last long
   - **Shaggy Pelt, Beast Sinew:** yetis, wraiths, golems, raptors, sabre tigers (rare).
   - **Dragon Scale, Ancient Sinew:** mammoths, T-rexes, dragons (very rare).
   - Camp legends drop three times as often and give extra. In co-op, materials from your kills go to you.
-- **The forge:** stand by the blacksmith and tap **⚒ Forge** (or cog → Hero → Forge). The first time, a short guide explains how it works. Logs, stone and crystal come from your pack; gold from your wallet. Each item lists what it needs and how much you have.
+- **The forge:** stand by the blacksmith and tap **⚒ Forge** to open the forge window. The first time, a short guide explains how it works. Recipes are grouped into tabs: **Weapons, Armour, Tools** (axes, packs, boots), **Special, Town** (supplies) and **Salvage**. A green number on a tab shows how many recipes there you can afford. Each recipe shows a picture of the item.
+- Forged gear is equipped on your hero straight away and listed under **Gear** on the Hero screen. Logs, stone and crystal come from your pack; gold from your wallet. Each item lists what it needs and how much you have.
 - **New recipe alerts:** when a recipe becomes available (a Town Hall or castle upgrade, a special earned, a scroll found), a banner tells you and the Forge button shows **NEW** until you open it.
 - **Recipes reveal as your town grows:** the forge only shows what your Town Hall allows. New recipes appear with each Town Hall upgrade, rare gear at **Castle I** and legendary gear at **Castle II**. The forge tells you when the next ones unlock.
 - **What you can craft**, one tier at a time:
@@ -132,7 +133,7 @@ Three gold-only upgrade spaces sit around the plaza: comfort (supplies last long
   - **Tower Runes I–III** (Town Hall II): +20% tower damage each.
   - **Warding Totem I–II** (Town Hall III): towers shoot 3 m farther each.
 - **Salvage:** break down gear you own (weapon, armour, ranged weapons, helmets, capes) for half its gold and materials back; logs, stone and crystal come back as gold. Salvaging a weapon or armour drops you one tier.
-- Materials are shown on the Forge tab, grouped into **Hides, Sinew, Gems and Magic**, each with its own icon (also used in recipe costs), and in your Hero inventory.
+- Materials are shown at the top of the forge, grouped into **Hides, Sinew, Gems and Magic**, each with its own icon (also used in recipe costs). The Hero screen lists your **Gear** and your **Materials** separately.
 
 ## Ranged weapons
 A ranged weapon fires on its own at the nearest threat in range, alongside your axes. **Hunting Bow** (12 m), **Crossbow** (Town Hall II) and **Rifle** (Town Hall III) are forged at the blacksmith. Magic staffs come from treasure: the **Frost Staff** slows, the **Fire Staff** explodes, and the **Storm Staff** throws lightning that jumps to two more foes.
